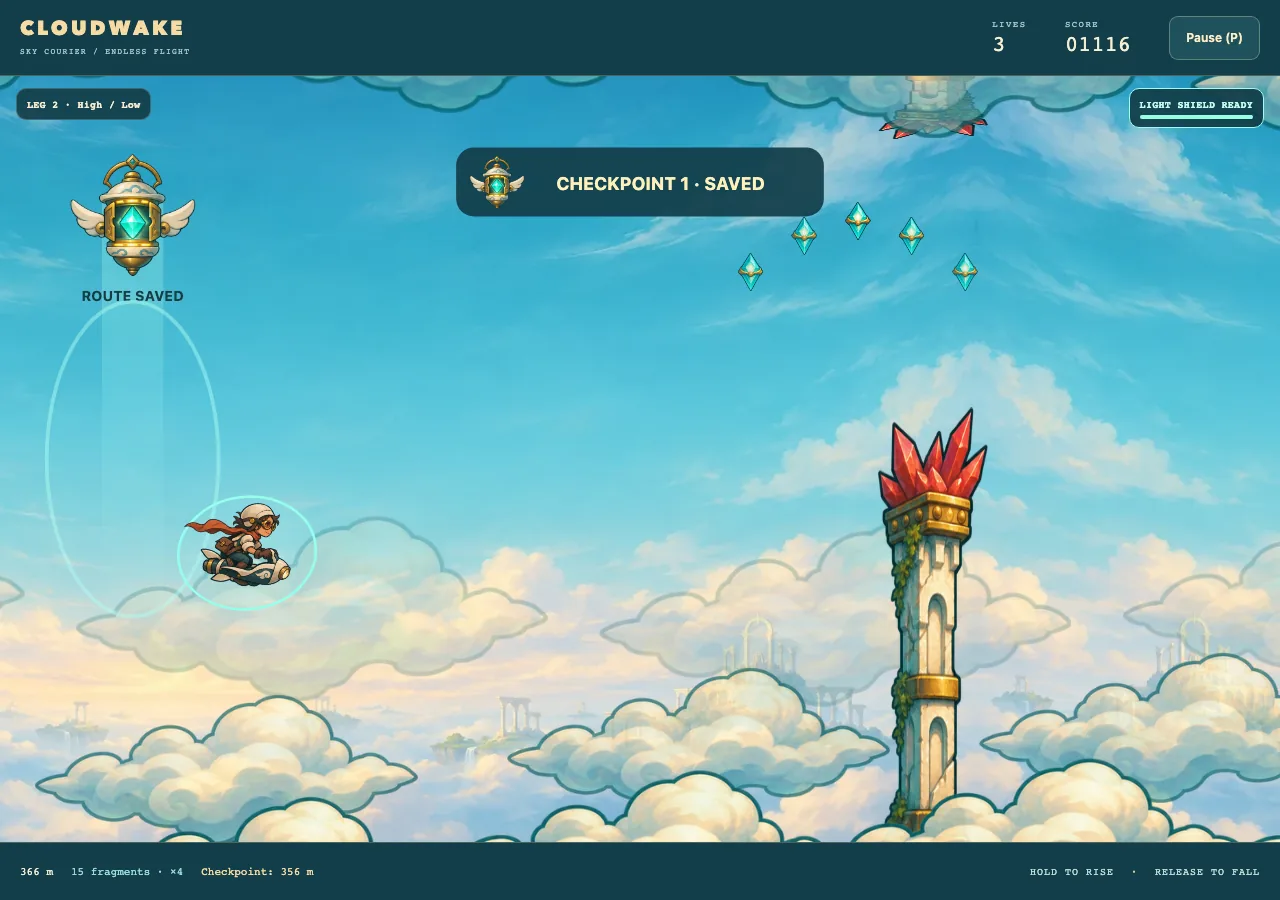
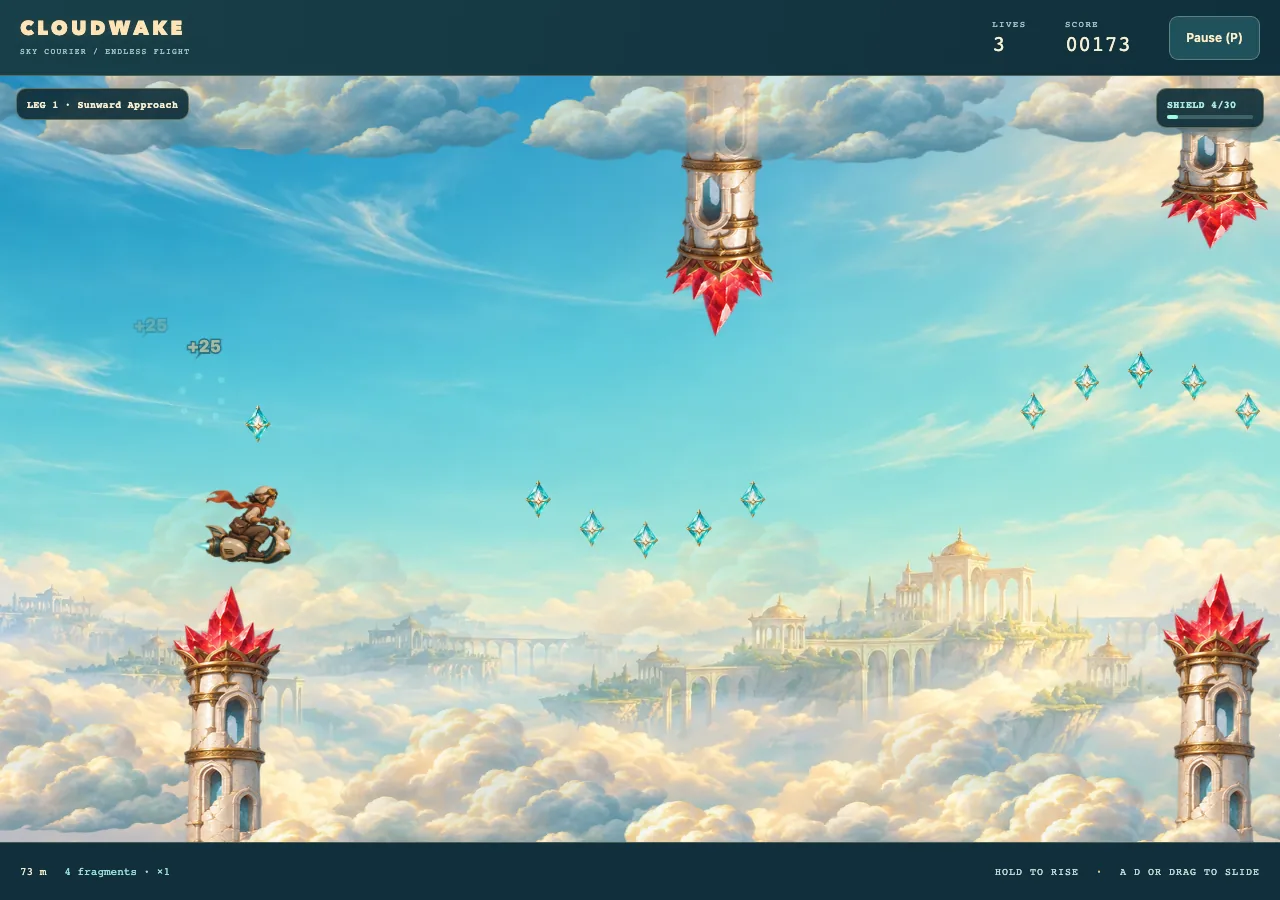
feat: add Cloudwake Sunward Radiance deluxe theme

diff --git a/src/games/cloudwake/app.ts b/src/games/cloudwake/app.ts
@@ -1,6 +1,6 @@
 import type { FullscreenControl } from '../../engine/browser/fullscreen.ts';
 import { createHost } from '../../engine/browser/host.ts';
-import { createReadiness } from '../../engine/browser/preparation.ts';
+import { createReadiness, createPreparationScope } from '../../engine/browser/preparation.ts';
 import { bindPageLifetime, bindSessionFocus } from '../../engine/browser/session.ts';
 import { createClock, FIXED_STEP } from '../../engine/clock.ts';
 import { disposeAll } from '../../engine/disposal.ts';
@@ -10,17 +10,20 @@ import { bindInput } from './input.ts';
 import { createPresentation } from './presentation.ts';
 import { createSound } from './sound.ts';
 import { createUI, type Intent, type Screen } from './ui.ts';
+import { themes, type Appearance } from './themes.ts';
 import './style.css';
 
 export function mountCloudwake(container: HTMLElement, onExit: () => void, fullscreen: FullscreenControl): GameSession {
   let disposed = false, screen: Screen = 'title', run = createRun();
   const clock = createClock();
-  let outcomeAt = 0;
+  let outcomeAt = 0, appearance: Appearance = 'arcade', active = false;
+  const preparation = createPreparationScope();
   let host: ReturnType<typeof createHost>, ui: ReturnType<typeof createUI>, input: ReturnType<typeof bindInput>;
   let presentation: ReturnType<typeof createPresentation>, sound: ReturnType<typeof createSound>;
   function dispose() {
     if (disposed) return;
     disposed = true;
+    preparation.dispose();
     disposeAll(() => input?.clear(), () => presentation?.dispose(), () => sound?.dispose(), () => host?.dispose());
   }
   try {
@@ -28,7 +31,9 @@ export function mountCloudwake(container: HTMLElement, onExit: () => void, fulls
       surfaceLabel: 'Cloudwake playfield. Hold Space, mouse or touch to rise. Release to fall. A, D or sideways drag slides across the view. P pauses.',
       onDisplayChange: suspend, onFullscreenChange: () => ui.fullscreen(host.fullscreenAvailable, host.fullscreen) });
     sound = createSound(message => { if (!disposed) ui.soundStatus(message); });
-    ui = createUI(host.root, host.surface, host.signal, act, value => sound.setMuted(value));
+    ui = createUI(host.root, host.surface, host.signal, act, value => sound.setMuted(value), id => {
+      if (readiness.ready) void selectTheme(id); else readiness.watch(() => selectTheme(id));
+    });
     input = bindInput(host.surface, ui.controls, () => screen === 'playing', host.signal);
     presentation = createPresentation(host.surface);
     const readiness = createReadiness(host.signal, (state, retry) => {
@@ -36,9 +41,50 @@ export function mountCloudwake(container: HTMLElement, onExit: () => void, fulls
       if (state === 'ready' && screen === 'title' && document.hasFocus()
         && document.activeElement === host.root.querySelector('[data-menu-action="quit"]')) ui.launchButtons[0]!.focus({ preventScroll: true });
     });
-    readiness.watch(() => presentation.prepare().then(() => { if (!disposed) presentation.draw(run, host); }));
+    readiness.watch(() => selectTheme('arcade'));
     host.root.dataset.theme = 'arcade';
 
+    async function selectTheme(id: Appearance) {
+      if (disposed || screen === 'playing') return false;
+      const request = preparation.begin();
+      ui.appearancePending(id); ui.appearanceStatus(`Preparing ${themes[id].name}…`);
+      let candidate: ReturnType<typeof createPresentation> | undefined;
+      try {
+        candidate = createPresentation(document.createElement('div'), id);
+        const display = candidate;
+        const cancelCandidate = () => display.dispose();
+        request.signal.addEventListener('abort', cancelCandidate, { once: true });
+        await candidate.prepare();
+        if (!request.current()) return false;
+        candidate.draw(run, host, screen === 'title' ? performance.now() / 1000 : undefined);
+        const previous = presentation;
+        host.surface.append(candidate.element); presentation = candidate; candidate = undefined;
+        // The active owner must survive cancellation of the next request.
+        request.signal.removeEventListener('abort', cancelCandidate);
+        appearance = id; active = true;
+        host.root.dataset.theme = id;
+        ui.appearance(id); ui.appearanceStatus('');
+        previous.dispose();
+        return true;
+      } catch {
+        if (request.current()) {
+          ui.appearance(appearance);
+          ui.appearanceStatus(`Could not load ${themes[id].name}. ${active ? `Keeping ${themes[appearance].name}.` : 'Retry artwork or return to game selection.'} Your flight is preserved.`);
+        }
+      } finally { candidate?.dispose(); }
+      return false;
+    }
+    function recoverPresentation() {
+      const failed = appearance;
+      suspend(); preparation.cancel(); presentation.dispose(); active = false;
+      delete host.root.dataset.theme;
+      let reportFailure = failed === 'arcade';
+      ui.appearanceStatus(`Graphics interrupted. Your flight is preserved. ${reportFailure ? 'Retry artwork to continue.' : 'Recovering Arcade; resume when ready.'}`);
+      readiness.watch(() => {
+        if (reportFailure) { reportFailure = false; return Promise.resolve(false); }
+        return selectTheme('arcade');
+      });
+    }
     function transition(next: Screen, focus = true) {
       input.clear(); clock.reset(); screen = next;
       if (next === 'paused' || next === 'title') sound.pause();
@@ -50,6 +96,9 @@ export function mountCloudwake(container: HTMLElement, onExit: () => void, fulls
       if (intent === 'pause') { suspend(); return; }
       if (intent === 'fullscreen') { void host.toggleFullscreen().then(message => { if (!disposed) ui.displayStatus(message); }); return; }
       if (!readiness.ready || document.hidden || !document.hasFocus()) return;
+      if (['start', 'restart', 'continue', 'resume'].includes(intent)) {
+        preparation.cancel(); ui.appearance(appearance); ui.appearanceStatus('');
+      }
       if ((intent === 'start' && screen === 'title') || (intent === 'restart' && screen !== 'playing')) {
         sound.reset(); sound.activate();
         run = createRun(crypto.getRandomValues(new Uint32Array(1))[0]);
@@ -95,16 +144,7 @@ export function mountCloudwake(container: HTMLElement, onExit: () => void, fulls
         }
       }
       try { presentation.draw(run, host, screen === 'title' ? now / 1000 : undefined, screen === 'crashed' || screen === 'defeat' ? (now - outcomeAt) / 1000 : 0); }
-      catch {
-        suspend(); presentation.dispose();
-        let report = true;
-        readiness.watch(() => {
-          if (report) { report = false; return Promise.resolve(false); }
-          presentation.dispose();
-          presentation = createPresentation(host.surface);
-          return presentation.prepare().then(() => { if (!disposed) presentation.draw(run, host); });
-        });
-      }
+      catch { recoverPresentation(); }
       ui.update(run);
     });
     return { dispose };

diff --git a/src/games/cloudwake/presentation.ts b/src/games/cloudwake/presentation.ts
@@ -1,4 +1,5 @@
-import { createImageResource, validateImageDimensions } from '../../engine/browser/images.ts';
+import { prepareImages, validateImageDimensions, type PreparedImages } from '../../engine/browser/images.ts';
+import type { Appearance } from './themes.ts';
 import type { Run, FlightEvent } from './game.ts';
 import { flight, viewScale, fragmentShape } from './content.ts';
 import { minePosition, passageCenter } from './route.ts';
@@ -34,12 +35,26 @@ export function flightView(width: number, height: number) {
   return { scale, width: width / scale, y: (height - flight.height * scale) / 2, x: Math.max(0, width / scale * .2 - flight.playerX) };
 }
 
-export function createPresentation(surface: HTMLElement) {
+export function createPresentation(surface: HTMLElement, appearance: Appearance = 'arcade') {
   const element = document.createElement('canvas'); element.className = 'cloudwake-canvas'; element.setAttribute('aria-hidden', 'true');
   const context = element.getContext('2d');
   if (!context) throw new Error('Canvas 2D unavailable');
   const ctx = context;
-  const art = createImageResource(urls, dimensions => validateImageDimensions(dimensions, sizes));
+  const lifetime = new AbortController();
+  let art: PreparedImages | undefined, pending: Promise<void> | undefined;
+  function prepare(): Promise<void> {
+    if (art) return Promise.resolve();
+    if (pending) return pending;
+    pending = (async () => {
+      const pack = appearance === 'deluxe' ? await import('./deluxe-art.ts') : { urls, sizes };
+      const prepared = await prepareImages(pack.urls, lifetime.signal, dimensions => validateImageDimensions(dimensions, pack.sizes));
+      if (lifetime.signal.aborted) { prepared.dispose(); return; }
+      art = prepared;
+    })().finally(() => { pending = undefined; });
+    return pending;
+  }
+  const deluxe = appearance === 'deluxe';
+  const courierRole = deluxe ? { ...courier, size: 90, anchorX: .58, anchorY: .52 } : courier;
   const motion = matchMedia('(prefers-reduced-motion: reduce)');
   const sparks: Spark[] = [];
   const scores: ScorePop[] = [];
@@ -67,16 +82,19 @@ export function createPresentation(surface: HTMLElement) {
   }
   function draw(run: Run, viewport: Viewport, titleTime?: number, outcomeAge = 0) {
     if (disposed) return;
-    const { width, height, ratio } = viewport;
+    const { width, height } = viewport;
+    const ratio = Math.min(2, viewport.ratio);
     const backingWidth = Math.max(1, Math.round(width * ratio)), backingHeight = Math.max(1, Math.round(height * ratio));
     if (element.width !== backingWidth || element.height !== backingHeight) { element.width = backingWidth; element.height = backingHeight; }
-    const images = art.images;
+    const images = art?.images ?? {};
     if (!images.courier) return;
     lastTime = run.elapsed;
     const time = titleTime ?? run.elapsed + Math.min(.8, outcomeAge), decorative = motion.matches ? 0 : time;
     const distance = titleTime !== undefined ? decorative * 38 : run.distance;
     const view = flightView(width, height);
+    ctx.reset();
     ctx.setTransform(ratio, 0, 0, ratio, 0, 0);
+    ctx.imageSmoothingQuality = 'high';
     ctx.fillStyle = '#79bbcd'; ctx.fillRect(0, 0, width, height);
     // Mirrored plates keep the scrolling horizon continuous without a hard seam.
     const skyWidth = Math.max(width, height * 1.5), skyHeight = skyWidth / 1.5;
@@ -157,8 +175,11 @@ export function createPresentation(surface: HTMLElement) {
     const shieldLeft = run.shieldUntil - run.elapsed;
     if (titleTime === undefined && shieldLeft > 0) {
       const fade = Math.min(1, shieldLeft / .7);
-      ctx.globalAlpha = fade; ctx.strokeStyle = '#b8fff2'; ctx.lineWidth = 2; ctx.fillStyle = '#a4fff018';
-      ctx.beginPath(); ctx.ellipse(playerX - 7, playerY, 46, 36, -.12, 0, Math.PI * 2); ctx.fill(); ctx.stroke();
+      ctx.globalAlpha = fade; ctx.strokeStyle = '#b8fff2'; ctx.lineWidth = deluxe ? 1.5 : 2;
+      const glass = ctx.createRadialGradient(playerX - 20, playerY - 22, 2, playerX - 6, playerY - 5, 48);
+      glass.addColorStop(0, '#e6fff92e'); glass.addColorStop(.7, '#a4fff008'); glass.addColorStop(1, '#c5fff940');
+      ctx.fillStyle = deluxe ? glass : '#a4fff018';
+      ctx.beginPath(); ctx.ellipse(playerX - 7, playerY - (deluxe ? 5 : 0), deluxe ? 48 : 46, deluxe ? 42 : 36, -.12, 0, Math.PI * 2); ctx.fill(); ctx.stroke();
       ctx.globalAlpha = 1;
     }
     if (!motion.matches && run.thrust && run.status === 'active' && titleTime === undefined) {
@@ -170,13 +191,13 @@ export function createPresentation(surface: HTMLElement) {
       }
       ctx.globalAlpha = 1;
     }
-    const frames = run.thrust ? courier.thrust : courier.glide;
+    const frames = run.thrust ? courierRole.thrust : courierRole.glide;
     const frame = frames[motion.matches ? 0 : Math.floor(time * (run.thrust ? 9 : 3)) % 2]!;
     ctx.save(); ctx.translate(playerX, playerY);
     const tilt = motion.matches || titleTime !== undefined ? 0 : Math.max(-.19, Math.min(.22, run.player.vy / 1500));
     ctx.rotate(tilt);
-    ctx.drawImage(images.courier, frame % 2 * courier.cell, Math.floor(frame / 2) * courier.cell, courier.cell, courier.cell,
-      -courier.size * courier.anchorX, -courier.size * courier.anchorY, courier.size, courier.size);
+    ctx.drawImage(images.courier, frame % 2 * courierRole.cell, Math.floor(frame / 2) * courierRole.cell, courierRole.cell, courierRole.cell,
+      -courierRole.size * courierRole.anchorX, -courierRole.size * courierRole.anchorY, courierRole.size, courierRole.size);
     ctx.restore();
     let keep = 0;
     for (const spark of sparks) {
@@ -208,7 +229,7 @@ export function createPresentation(surface: HTMLElement) {
       ctx.globalAlpha = (1 - (time - crashTime) / .18) * .25; ctx.fillStyle = '#ffecd0'; ctx.fillRect(-view.x, 0, worldWidth, flight.height); ctx.globalAlpha = 1;
     }
   }
-  return { prepare: art.prepare, draw, consume, reset,
-    dispose() { if (disposed) return; disposed = true; art.dispose(); sparks.length = scores.length = missedFragments.length = 0; element.remove(); element.width = element.height = 0; },
+  return { element, prepare, draw, consume, reset,
+    dispose() { if (disposed) return; disposed = true; lifetime.abort(); art?.dispose(); art = undefined; sparks.length = scores.length = missedFragments.length = 0; element.remove(); element.width = element.height = 0; },
   };
 }

diff --git a/src/games/cloudwake/ui.ts b/src/games/cloudwake/ui.ts
@@ -2,13 +2,14 @@ import { createElementLookup, setText, setProperty } from '../../common/ui/dom.t
 import { createMenuReadout } from '../../common/ui/menu-components.ts';
 import { createGameMenu, menuActions, type CommonMenuIntent } from '../../common/ui/menu.ts';
 import { createThemeChoices } from '../../common/ui/theme-choices.ts';
+import { themes as themeDefinitions, type Appearance } from './themes.ts';
 import { flight, multiplierAt } from './content.ts';
 import { legAt } from './route.ts';
 import type { Run } from './game.ts';
 
 export type Screen = 'title' | 'playing' | 'paused' | 'crashed' | 'defeat';
 export type Intent = CommonMenuIntent | 'continue';
-export function createUI(root: HTMLElement, surface: HTMLElement, signal: AbortSignal, act: (intent: Intent) => void, mute: (value: boolean) => void) {
+export function createUI(root: HTMLElement, surface: HTMLElement, signal: AbortSignal, act: (intent: Intent) => void, mute: (value: boolean) => void, onTheme: (id: Appearance) => void) {
   root.innerHTML = `<header class="cloudwake-hud"><div class="cloudwake-brand">CLOUDWAKE<span>SKY COURIER / ENDLESS FLIGHT</span></div>
     <div><small>LIVES</small><output aria-label="Lives">3</output></div><div class="cloudwake-score"><small>SCORE</small><output aria-label="Score">0</output></div><button data-intent="pause">Pause</button></header>
     <main class="cloudwake-stage"><div class="cloudwake-flight-status"><span class="cloudwake-leg"></span><div class="cloudwake-shield"><span class="cloudwake-shield-label"></span><progress aria-label="Light shield" max="1" value="0"></progress></div></div></main><footer class="cloudwake-footer"><div class="cloudwake-readout"><output aria-label="Distance">0 m</output><span class="cloudwake-fragments">0 fragments</span></div><p class="cloudwake-hint">HOLD TO RISE <span>·</span> A D OR DRAG TO SLIDE</p><div class="cloudwake-touch"><button data-control="left" aria-label="Slide left">←</button><button data-control="right" aria-label="Slide right">→</button><button data-control="thrust" aria-label="Hold to rise">↑ <span>HOLD TO RISE</span></button></div></footer>`;
@@ -22,7 +23,8 @@ export function createUI(root: HTMLElement, surface: HTMLElement, signal: AbortS
     right: $<HTMLButtonElement>('[data-control="right"]'),
   };
   const results = createMenuReadout('Flight results');
-  const themes = createThemeChoices({ modes: { arcade: {} }, names: { arcade: 'The Sunward Route' }, value: 'arcade', signal, onChange() {} });
+  const themes = createThemeChoices({ modes: themeDefinitions, names: Object.fromEntries(Object.entries(themeDefinitions).map(([id, theme]) => [id, theme.name])), value: 'arcade', signal, onChange: onTheme });
+  const assetStatus = document.createElement('p'); assetStatus.setAttribute('role', 'status'); assetStatus.hidden = true;
   themes.setValue('arcade');
   const menu = createGameMenu<Intent, Screen>(root, surface, stage, {
     id: 'cloudwake', title: 'Cloudwake', signal, pause,
@@ -32,7 +34,12 @@ export function createUI(root: HTMLElement, surface: HTMLElement, signal: AbortS
     actions: [menuActions.start, menuActions.resume, { id: 'continue', label: 'Continue', screens: ['crashed'], primary: true },
       { ...menuActions.restart, screens: ['paused', 'crashed', 'defeat'] }, { ...menuActions.quit, screens: ['title', 'paused', 'crashed', 'defeat'] }],
   });
-  return { controls, launchButtons: menu.actions.filter(button => ['start', 'restart', 'continue'].includes(button.dataset.menuAction!)),
+  menu.layer.querySelector('.game-menu-notices')!.prepend(assetStatus);
+  return {
+    appearance(id: Appearance) { themes.setValue(id); },
+    appearancePending(id: Appearance) { themes.prepare(id); },
+    appearanceStatus(message: string) { assetStatus.textContent = message; assetStatus.hidden = !message; },
+    controls, launchButtons: menu.actions.filter(button => ['start', 'restart', 'continue'].includes(button.dataset.menuAction!)),
     readiness: menu.readiness, fullscreen: menu.fullscreen, soundStatus: menu.soundStatus, displayStatus: menu.displayStatus,
     show(screen: Screen, focus = true) {
       menu.description.textContent = screen === 'title' ? 'Take the sunward route. Hold to rise, release to fall, and slide across the view. Three lives, with lantern checkpoints in clear air.'

diff --git a/src/games/cloudwake/style.css b/src/games/cloudwake/style.css
@@ -57,3 +57,10 @@
   .cloudwake-app .cloudwake-touch button { min-height: 36px; min-width: 44px; }
   .cloudwake-app .cloudwake-touch [data-control='thrust'] { min-width: 108px; min-height: 36px; }
 }
+
+.cloudwake-app[data-theme='deluxe'] { background: #102f3a; --menu-accent: #f5d79f; }
+.cloudwake-app[data-theme='deluxe'] .cloudwake-hud { background: linear-gradient(110deg, #183f49, #102f3a); border-color: #e6c68a50; }
+.cloudwake-app[data-theme='deluxe'] .cloudwake-brand { color: #ffe4b6; text-shadow: 0 1px 12px #e5b75b20; }
+.cloudwake-app[data-theme='deluxe'] .cloudwake-footer { background: #102f3a; }
+.cloudwake-app[data-theme='deluxe'] :is(.cloudwake-leg, .cloudwake-shield) { background: #102f3aeb; border-color: #e6c68a60; box-shadow: 0 3px 14px #0b293630; }
+.cloudwake-app[data-theme='deluxe'] .game-menu { background: radial-gradient(ellipse at 0 0, #3d72744d, transparent 70%), #102f3af7; border-color: #edce9680; box-shadow: 0 24px 80px #07202d66, inset 0 1px #ffebbd20; }

diff --git a/src/games/cloudwake/deluxe-art.ts b/src/games/cloudwake/deluxe-art.ts
@@ -1,0 +1,11 @@
+/** Loaded only when Deluxe is selected. */
+export const urls = {
+  courier: new URL('./art/sunward-radiance/courier.webp', import.meta.url).href,
+  pillar: new URL('./art/sunward-radiance/pillar.webp', import.meta.url).href,
+  mine: new URL('./art/sunward-radiance/mine.webp', import.meta.url).href,
+  fragment: new URL('./art/sunward-radiance/fragment.webp', import.meta.url).href,
+  cloud: new URL('./art/sunward-radiance/cloud.webp', import.meta.url).href,
+  sky: new URL('./art/sunward-radiance/sky.webp', import.meta.url).href,
+  checkpoint: new URL('./art/sunward-radiance/checkpoint.webp', import.meta.url).href,
+};
+export const sizes = { courier: [1024, 1024], pillar: [192, 480], mine: [256, 256], fragment: [192, 288], cloud: [640, 252], sky: [1536, 1024], checkpoint: [1024, 1024] } as const;

diff --git a/src/games/cloudwake/themes.ts b/src/games/cloudwake/themes.ts
@@ -1,0 +1,5 @@
+export const themes = {
+  arcade: { name: 'The Sunward Route' },
+  deluxe: { name: 'Sunward Radiance' },
+} as const;
+export type Appearance = keyof typeof themes;

diff --git a/docs/games/cloudwake/README.md b/docs/games/cloudwake/README.md
@@ -1,8 +1,8 @@
 # Cloudwake
 
-![Cloudwake · The Sunward Route](preview.webp)
+![Cloudwake · Deluxe · Sunward Radiance](preview.webp)
 
-An endless flight through a sunlit sky civilization. Carry a satchel of lost light between ivory ruins on a little turbine scooter. Hold to rise, release to descend, slide across the view, dodge coral crystals and collect turquoise fragments. The complete presentation is **Arcade · The Sunward Route**.
+An endless flight through a sunlit sky civilization. Carry a satchel of lost light between ivory ruins on a little turbine scooter. Hold to rise, release to descend, slide across the view, dodge coral crystals and collect turquoise fragments. The game starts in **Arcade · The Sunward Route**. **Deluxe · Sunward Radiance** adds dimensional painted artwork through the same Canvas renderer.
 
 ## Flight and progression
 
@@ -24,6 +24,16 @@ Filling the fragment charge meter raises a **light shield** for a few seconds. T
 
 Hold Space, W, ↑, mouse/touch on the playfield, or the mobile Rise button. Release to descend. Slide with A, D, ←, →, the on-screen arrows, or a sideways drag. See [shared menus, controls and lifecycle](../../../CATALOG.md) for pause, sound, fullscreen and navigation.
 
+## Deluxe · Sunward Radiance
+
+The same courier, ivory-and-teal scooter, coral-crystal ruins and winged lanterns receive a dimensional painted treatment: glazed ceramic, chased brass, translucent crystal and warm fabric. Complete authored flight cels carry the pilot and vehicle together. Glide/release and alternating thrust cels retain a stable vehicle anchor, while scarf and exhaust provide the motion accents.
+
+A luminous cloud sea and distant ivory terraces occupy the lower scenery, with quiet blue air behind the flight corridors. Coral silhouettes identify danger; turquoise fragments and lantern cores identify rewards and safety. Background contrast stays below the foreground ruins, and decorative parallax never moves physical geometry. The title, HUD and menus use deep petrol surfaces with champagne and turquoise accents.
+
+A lantern opens once on checkpoint passage, blooms and settles into its lit cel. The shield forms a restrained glass envelope around the courier; pickup points remain attached to the collected fragment. Trails and glints stay bounded and use active flight time. Pause freezes them, and reduced motion keeps still cels and essential state cues while suppressing decorative movement and flashes.
+
+Deluxe loads its own courier, ruins, mine, fragment, cloud, lantern and horizon artwork only when selected. The working presentation stays visible during preparation. Failed preparation retains the current theme; a draw failure pauses the flight and recovers to Arcade with fresh Canvas state, following the shared [replacement contract](../../architecture.md#replacement-and-recovery).
+
 ## Local owners and adaptation
 
 | Owner | Responsibility |
@@ -35,6 +45,7 @@ Hold Space, W, ↑, mouse/touch on the playfield, or the mobile Rise button. Rel
 | `app.ts` | Browser composition, fresh runs, checkpoint continuation and readiness/recovery |
 | `input.ts` | Shared button owner, playfield and launch-hold capture, and sideways drag in CSS pixels |
 | `ui.ts`, `style.css` | HUD, results and shared menu composition |
+| `themes.ts`, `deluxe-art.ts` | Available themes and lazy Deluxe artwork URLs/dimensions |
 | `presentation.ts` | Whole-cel roles, checkpoint activation, uniform projection, image preparation, missed-gem clipping, stable world-indexed clouds and bounded effects |
 | `sound.ts`, `sound-recipes.ts` | Quiet turbine pulses, glass pickups, multiplier/shield cues, checkpoint chime and hull impact |
 | [Artwork guide](../../../src/games/cloudwake/art/README.md) | Asset roles, provenance and prompts |

diff --git a/src/games/cloudwake/art/README.md b/src/games/cloudwake/art/README.md
@@ -1,6 +1,6 @@
 # The Sunward Route
 
-Original Cloudwake artwork generated for Arcade Lab with the built-in imagegen tool, then mechanically cropped, sized and encoded with Sharp. The complete prompt set is retained in [prompts.json](prompts.json). These assets are distributed under the repository's [MIT license](../../../../LICENSE). No third-party game imagery, fonts, branding or source artwork is used.
+Original AI-generated Cloudwake artwork, then mechanically cropped, sized and encoded with Sharp. The complete prompt set is retained in [prompts.json](prompts.json). These assets are distributed under the repository's [MIT license](../../../../LICENSE). No third-party game imagery, fonts, branding or source artwork is used.
 
 ## Visual brief and roles
 
@@ -20,6 +20,8 @@ The courier's stable anchor is near the vehicle center, with a common square cel
 
 The original generated sheets were 1254×1254: four equal 627×627 cells. The courier was resized as a whole to 1024×1024. Object cells were extracted in reading order, trimmed to their alpha content and resized to their listed widths with aspect ratio preserved. The generated 1536×1024 sky was encoded at WebP quality 86; transparent runtime sprites use lossless WebP. All required runtime images live here. Regeneration should use the saved prompts, inspect complete silhouettes and alpha, then update local dimensions if necessary.
 
-The checkpoint is an ivory-and-brass floating lantern with wing-shaped fins and a turquoise crystal. Its separate original 1254×1254 generated sheet was resized as a whole to 1024×1024 and encoded as lossless WebP, preserving alpha. Each 512-pixel cel draws in a 124-unit square with an anchor at 52% across and 48% down. On passing, the dormant cel opens to amber, blooms once on the pulse cel, then holds the steady turquoise cel. The pulse cel is not a loop. A reduced-motion view switches directly to the still activated cel. The lantern marks passage through the entire clear-air pocket; it has no collision body and does not require touching the illustration. A short ring on the lantern is the only activation effect. The `checkpoint` entry in `prompts.json` retains the complete built-in imagegen prompt.
+The checkpoint is an ivory-and-brass floating lantern with wing-shaped fins and a turquoise crystal. Its separate original 1254×1254 generated sheet was resized as a whole to 1024×1024 and encoded as lossless WebP, preserving alpha. Each 512-pixel cel draws in a 124-unit square with an anchor at 52% across and 48% down. On passing, the dormant cel opens to amber, blooms once on the pulse cel, then holds the steady turquoise cel. The pulse cel is not a loop. A reduced-motion view switches directly to the still activated cel. The lantern marks passage through the entire clear-air pocket; it has no collision body and does not require touching the illustration. A short ring on the lantern is the only activation effect. The `checkpoint` entry in `prompts.json` retains the complete creative prompt.
 
 Follow the shared [Arcade artwork workflow](../../../../docs/arcade.md) for replacements and [canonical preview workflow](../../../../docs/architecture.md#collection-previews-and-site-identity) for the collection screenshot.
+
+Deluxe has its own [Sunward Radiance artwork bundle](sunward-radiance/README.md), source illustrations and packing script. Arcade remains independently playable.

diff --git a/src/games/cloudwake/art/sunward-radiance/README.md b/src/games/cloudwake/art/sunward-radiance/README.md
@@ -1,0 +1,23 @@
+# Sunward Radiance
+
+Original AI-generated artwork, distributed under the repository's [MIT license](../../../../../LICENSE). No third-party assets are incorporated. The [prompts](prompts.json), original PNG sources and [packing script](pack.mjs) preserve the artwork for further adaptation. The [game guide](../../../../../docs/games/cloudwake/README.md#deluxe--sunward-radiance) owns the art direction.
+
+## Runtime roles
+
+| File | Contract |
+| --- | --- |
+| `courier.webp` | 1024×1024 transparent sheet, four 512×512 complete rider-and-scooter cels: glide, thrust A, thrust B, release |
+| `checkpoint.webp` | 1024×1024 transparent sheet, four 512×512 whole lantern cels: dormant, opening amber, turquoise active, bright pulse |
+| `pillar.webp` | 192×480 transparent ivory-and-brass ruin with coral crystal crown at its top, inverted for overhead ruins |
+| `mine.webp` | 256×256 transparent coral-crystal storm mine in a brass gyroscope cage |
+| `fragment.webp` | 192×288 transparent turquoise crystal with a gold collar |
+| `cloud.webp` | 640×252 transparent cream-and-blue cloud bank |
+| `sky.webp` | 1536×1024 quiet sky above distant ivory terraces, mirrored in adjacent scrolling tiles |
+
+The courier draws in a 90-unit square with a stable anchor at 58% across and 52% down. This registers the rider and scooter to the existing pickup silhouette without changing gameplay geometry. Authored poses move the upper body and scarf while retaining the scooter registration. The lantern shares Arcade's 124-unit footprint and anchor; its pulse is a single checkpoint response rather than a repeating animation.
+
+## Repacking
+
+Run `node src/games/cloudwake/art/sunward-radiance/pack.mjs` from the repository root. Courier and lantern sources are 1254×1254 and are resized as complete sheets, preserving cel pivots. The 1263×1245 object source uses explicit extraction rectangles because the cloud extends beyond its nominal quadrant. Objects are trimmed to alpha, resized to their runtime footprints and encoded as lossless WebP. The 1536×1024 scenery is encoded at WebP quality 88. Originals retain transparency and are never required by the browser.
+
+`deluxe-art.ts` owns the lazy URL bundle and decoded dimension contract. `presentation.ts` owns visual footprints and cels, uses the same uniform projection for both themes and bounds the backing buffer to DPR 2. Required art preparation, cancellation and recovery follow the [shared presentation workflow](../../../../../docs/architecture.md#replacement-and-recovery).

diff --git a/CATALOG.md b/CATALOG.md
@@ -18,7 +18,7 @@ The table lists the presentations currently implemented; their artwork and rende
 |  Midnight Circuit  |  Signal / Rain, inked arcade shops and industrial bays  |  Afterglow, detailed modern fighters and painted city with wet-road reflections  |
 |  Obsidian Duel  |  Eclipse Foundry, painted arcade fighters and forge-lit arena  |  Moonfall Sanctum, detailed fighters and jade-and-gold combat artwork  |
 |  Blastline  |  Ember Coast, detailed arcade commandos and rusted harbor defenses  |  Ember Reforged, dimensional painted commandos and industrial coast  |
-|  Cloudwake  |  The Sunward Route, painted sky courier and crystal ruins  |  —  |
+|  Cloudwake  |  The Sunward Route, painted sky courier and crystal ruins  |  Sunward Radiance, dimensional ceramic-and-brass courier, crystal ruins and luminous cloud terraces  |
 
 All current games start in **Arcade** and optionally switch to **Deluxe**. Arcade is the complete finished presentation. Deluxe enhances its artwork and effects through the same Canvas 2D gameplay presentation. Prototype is a temporary stage for new games and is removed once Arcade is complete. See the [mode contract](docs/architecture.md#mode-contract).
 
@@ -129,7 +129,7 @@ Health and lives are grouped in the HUD: bullets chip health, while hostile expl
 
 ## Cloudwake
 
-![Cloudwake · Arcade: a sky courier threads crystal ruins above a sunlit cloud sea](docs/games/cloudwake/preview.webp)
+![Cloudwake · Deluxe: a sky courier threads crystal ruins above a sunlit cloud sea](docs/games/cloudwake/preview.webp)
 
 Take the sunward route on a tiny flying scooter. Hold to rise, release to fall, slide across the view, and thread coral-crystal ruins while gathering turquoise fragments. The route keeps scrolling either way. A gentle approach leads to longer checkpoint legs with high/low gates, crystal steps, sweeping mines and moving openings. Speed rises at widening leg milestones as passages become more precise. Winged lanterns light as checkpoints. Three lives let you continue from the latest checkpoint, restoring its route and rewards; the third unshielded crash ends the flight. Fragment streaks raise pickup points up to ×4, and collecting fragments raises a temporary light shield that breaks on its first hit. There is no time limit.
 
